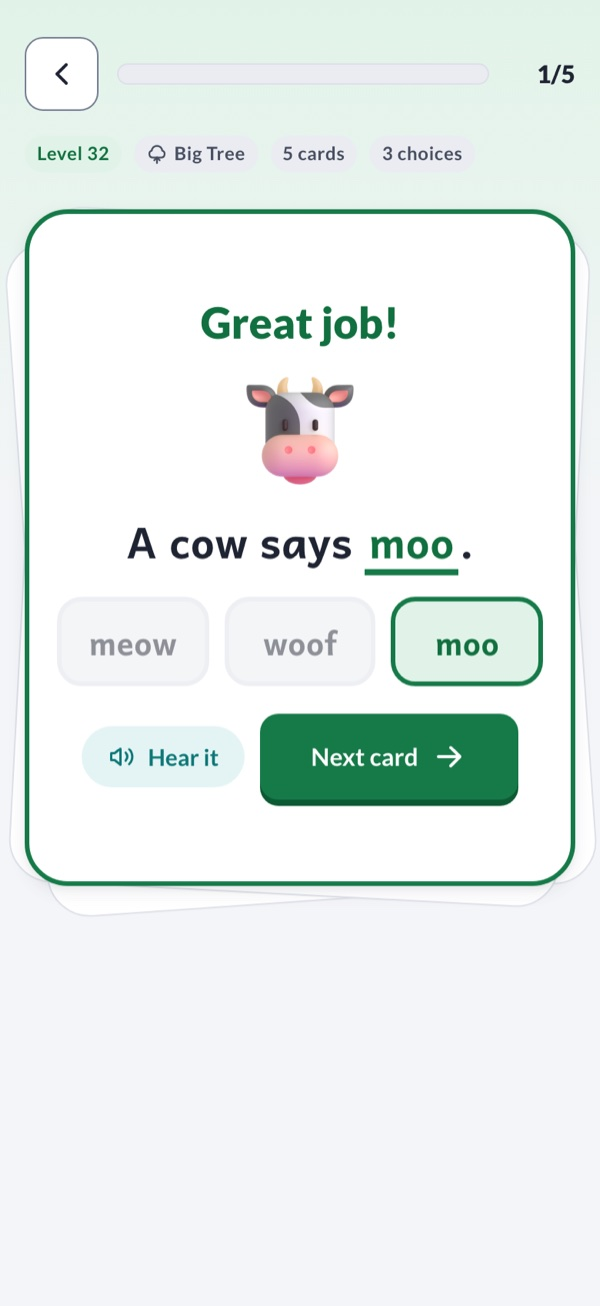
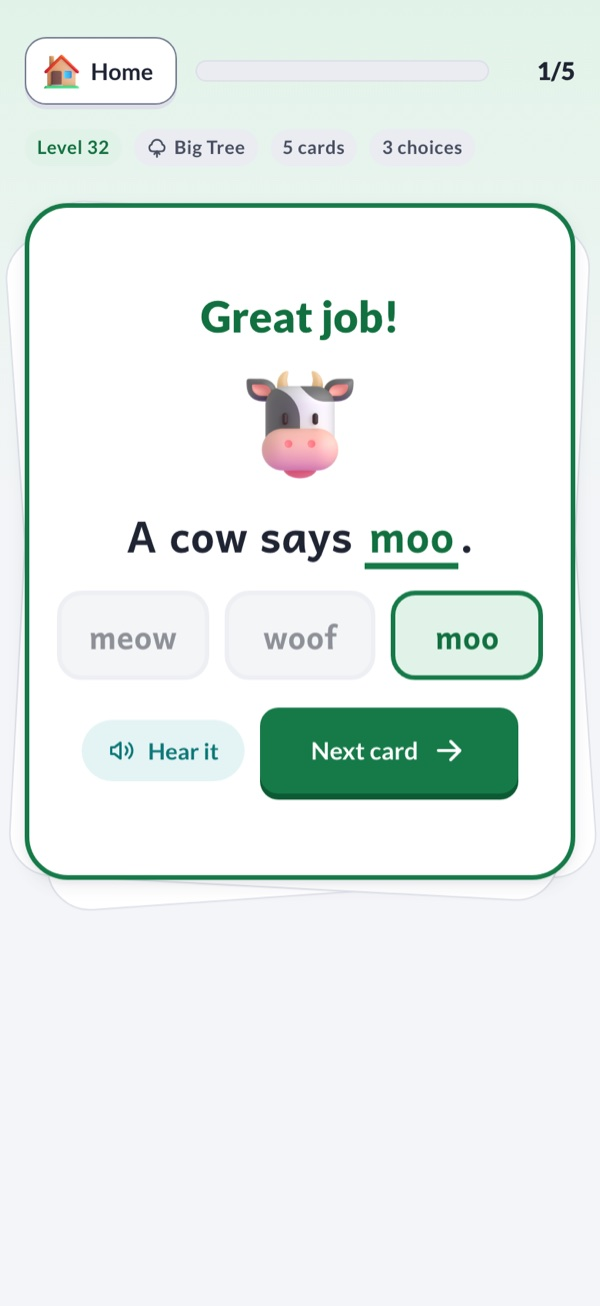
Auto-advance after 2 s; labelled Home button on every screen
- A right answer now moves on after 2 s (Next button fill and screen-reader
  text match); Home, Esc and every card change still clear the timer.
- The play screen's back arrow and the result screen's Map button are now
  the same Home button (3D house + label, 44 px tall).

diff --git a/app.js b/app.js
@@ -55,6 +55,8 @@ const ICON={
 // Card pictures: Microsoft Fluent Emoji 3D (MIT), one PNG per emoji in img/, named by code points without FE0F.
 const artSrc=e=>"img/u"+[...e.replace(/\uFE0F/g,"")].map(c=>c.codePointAt(0).toString(16)).join("-")+".png";
 const art=(e,cls="")=>`<img class="art ${cls}" src="${artSrc(e)}" alt="" draggable="false" onerror="this.replaceWith(document.createTextNode('${e}'))">`;
+// Every screen except the map itself has the same labelled Home button (Esc also goes home).
+const homeBtn=id=>`<button class="k-btn k-btn-outline chunky homebtn" id="${id}" title="Back to the level map (Esc)">${art("🏠")}Home</button>`;
 const levelPic=L=>L.words?L.words[0][1]:L.type==="sent"?L.items[0].e:L.items[0][2];
 const ic=(n,cls="k-icon")=>`<svg class="${cls}" viewBox="0 0 24 24" aria-hidden="true">${ICON[n]}</svg>`;
 const STAR='<path d="M12 2.8l2.8 5.7 6.3.9-4.55 4.4 1.07 6.25L12 17.1l-5.62 2.95 1.07-6.25L2.9 9.4l6.3-.9z"/>';
@@ -168,11 +170,11 @@ function start(lv){confirmReset=false;const L=LEVELS[lv-1];G={lv,L,cards:buildCa
 function header(){
   const pct=G.i/G.cards.length*100, t=TIERS[tierOf(G.lv)], L=G.L;
   const diff=L.type==="spell"?`${L.extra?L.extra+" decoy letter"+(L.extra>1?"s":""):"No decoys"}`:L.opts?`${L.opts} choices`:"";
-  return `<div class="bar"><button class="k-btn k-btn-outline quit" id="quit" aria-label="Back to the map">${ic("back")}</button><div class="k-progress-track" role="progressbar" aria-label="Cards done" aria-valuemin="0" aria-valuemax="${G.cards.length}" aria-valuenow="${G.i}"><div class="k-progress-fill" style="width:${pct}%"></div></div><div class="count" aria-label="Card ${G.i+1} of ${G.cards.length}">${G.i+1}/${G.cards.length}</div></div>
+  return `<div class="bar">${homeBtn("quit")}<div class="k-progress-track" role="progressbar" aria-label="Cards done" aria-valuemin="0" aria-valuemax="${G.cards.length}" aria-valuenow="${G.i}"><div class="k-progress-fill" style="width:${pct}%"></div></div><div class="count" aria-label="Card ${G.i+1} of ${G.cards.length}">${G.i+1}/${G.cards.length}</div></div>
   <div class="meta"><span class="k-badge k-badge-pill k-badge-primary">Level ${G.lv}</span><span class="k-badge k-badge-pill">${ic(t.icon,"k-icon")} ${t.name}</span><span class="k-badge k-badge-pill">${G.cards.length} cards</span>${diff?`<span class="k-badge k-badge-pill">${diff}</span>`:""}</div>`;
 }
 let keyHandler=null, advance=null;
-const WAIT=4000; // after a right answer, move on by itself after 4 s (Next skips the wait)
+const WAIT=2000; // after a right answer, move on by itself after 2 s (Next skips the wait)
 function stopAdvance(){if(advance){clearTimeout(advance);advance=null}}
 function goNext(){stopAdvance();if(!G)return;G.i++;G.i<G.cards.length?renderCard():finish()}
 const CHEERS=["Great job!","Super!","You got it!","Awesome!","Well done!"];
@@ -252,7 +254,7 @@ function finish(){
   <h1 id="done" tabindex="-1">Level ${lv} done!</h1><p>${miss===0?"Perfect, not a single slip!":`You found every answer, with ${miss} slip${miss>1?"s":""} along the way.`}${s<3?" A perfect round earns 3 stars.":""}</p>
   ${hasNext&&wasNew?`<div class="unlock">${newTier?`${art(t.e)}<span>New difficulty unlocked: <b>${t.name}</b><br>${t.skill}</span>`:`${ic("unlock")}<span>Level ${nextLv} is open. It’s a little harder!</span>`}</div>`:""}
   ${!hasNext?`<div class="unlock">${art("🏆")}<span>You finished the whole garden!</span></div>`:""}
-  <div class="row">${s<3?`<button class="k-btn k-btn-outline chunky" id="again">${ic("replay","k-icon sm")}Try for 3 stars</button>`:""}${hasNext?`<button class="k-btn k-btn-primary chunky" id="go">Level ${nextLv}${ic("next","k-icon sm")}</button>`:""}<button class="k-btn k-btn-outline chunky" id="map">${ic("map","k-icon sm")}Map</button></div></div>`;
+  <div class="row">${s<3?`<button class="k-btn k-btn-outline chunky" id="again">${ic("replay","k-icon sm")}Try for 3 stars</button>`:""}${hasNext?`<button class="k-btn k-btn-primary chunky" id="go">Level ${nextLv}${ic("next","k-icon sm")}</button>`:""}${homeBtn("map")}</div></div>`;
   const a=$("#again");if(a)a.onclick=()=>start(lv);
   const g=$("#go");if(g)g.onclick=()=>start(nextLv);
   $("#map").onclick=()=>home();

diff --git a/app.css b/app.css
@@ -75,7 +75,8 @@ button { font: inherit; color: inherit; }
 
 /* ---------- play ---------- */
 .bar { display: flex; align-items: center; gap: 12px; }
-.quit { width: var(--size-target-min); height: var(--size-target-min); padding: 0; flex: none; }
+.homebtn { display: inline-flex; align-items: center; gap: 6px; min-height: 44px; height: 44px; padding: 0 14px 0 10px; border-radius: 14px; flex: none; }
+.homebtn .art { width: 26px; height: 26px; }
 .bar .k-progress-track { flex: 1; height: 14px; }
 .bar .k-progress-fill { transition: width var(--duration-slow); }
 .count { font-weight: 900; font-variant-numeric: tabular-nums; min-width: 44px; text-align: right; }
@@ -127,10 +128,10 @@ button { font: inherit; color: inherit; }
 .slot.ok { border-style: solid; border-color: var(--primary); background: var(--primary-soft); color: var(--primary-text); }
 .done { display: flex; gap: 10px; align-items: center; justify-content: center; flex-wrap: wrap; margin-top: 4px; }
 [hidden] { display: none !important; }
-/* The Next button fills over the auto-advance wait (4 s). */
+/* The Next button fills over the auto-advance wait (2 s). */
 .nextcard { position: relative; overflow: hidden; isolation: isolate; }
 .nextcard .tick { position: absolute; inset: 0; z-index: -1; background: var(--primary-edge); transform-origin: left; transform: scaleX(0); }
-.nextcard.counting .tick { transform: scaleX(1); transition: transform var(--wait, 4s) linear; }
+.nextcard.counting .tick { transform: scaleX(1); transition: transform var(--wait, 2s) linear; }
 
 /* ---------- result ---------- */
 .result { text-align: center; max-width: 440px; margin: var(--space-8) auto 0; background: var(--surface); border: 3px solid var(--line); border-radius: 28px; padding: var(--space-8) var(--space-6); box-shadow: var(--shadow-2); }

diff --git a/prototype/mobile.html b/prototype/mobile.html
@@ -39,7 +39,7 @@ body{margin:0;background:radial-gradient(60% 50% at 80% 10%,#e1f3e8,transparent 
     <p>A card game that grows a child's English one level at a time, from matching pictures to words up to finishing sentences.</p>
     <ul>
       <li>Tap <b>Play</b> on the garden map: 40 levels in four stages, and the next level opens only when this one is finished.</li>
-      <li>Pick the word, find the missing letter or spell with letter tiles. A right answer turns green and completes the word on the same card, then the next card comes after 4 seconds; tap <b>Hear it</b> to hear it again.</li>
+      <li>Pick the word, find the missing letter or spell with letter tiles. A right answer turns green and completes the word on the same card, then the next card comes after 2 seconds; tap <b>Hear it</b> to hear it again.</li>
       <li>A wrong answer shakes the card and crosses out the choice. Fewer slips, more stars.</li>
       <li>Words are read by the phone's own voice. Progress stays on the device.</li>
     </ul>

diff --git a/README.md b/README.md
@@ -7,9 +7,9 @@ Live: https://word-garden-sable.vercel.app
 - **40 levels in 4 stages of 10, 5 cards each.** Seedling: match the picture to its word. Sprout: find the missing letter. Sunflower: spell the word with letter tiles. Big Tree: finish sentences, opposites and rhymes.
 - **No repeats.** About 160 picture words are dealt into fixed sets, so a word is a question in only one level; every Big Tree sentence, opposite and rhyme is used once.
 - **Difficulty follows the child.** A level opens only when the one before it is finished. Inside each stage the words get longer, choices go from 2 to 4 (wrong picture choices have the same length), and spelling decoys go from 0 to 3.
-- **One card per question.** Right: the choice turns green, the card shows the completed word or sentence in Andika (a font for early readers), says it aloud, and moves on after 4 seconds (Next skips the wait). Wrong: the card shakes and the choice is crossed out.
+- **One card per question.** Right: the choice turns green, the card shows the completed word or sentence in Andika (a font for early readers), says it aloud, and moves on after 2 seconds (Next skips the wait). Wrong: the card shakes and the choice is crossed out.
 - **Stars, not scores:** 3 for a perfect round, 2 for up to two slips, 1 otherwise. Progress stays on the device.
-- Works with touch, mouse and keyboard (type the letters on spelling cards, Backspace to undo, Esc for the map), and announces right and wrong answers to screen readers.
+- Works with touch, mouse and keyboard (type the letters on spelling cards, Backspace to undo, Esc or the Home button on every screen to get back to the map), and announces right and wrong answers to screen readers.
 - Installable PWA that works offline after the first visit; Android app via a Capacitor shell with native text-to-speech.
 
 Pictures: [Microsoft Fluent Emoji](https://github.com/microsoft/fluentui-emoji) in the 3D style, © Microsoft Corporation, MIT licence, resized to 160 px PNGs in `img/` (named by code point; `tools/img-index.mjs` lists them for offline caching).

diff --git a/BRIEF.md b/BRIEF.md
@@ -14,7 +14,7 @@ Children aged about 4 to 7 who are starting to read English need lots of short, 
 
 ## v1 screens
 1. **Garden map (home):** the current difficulty and a Play button, then 40 levels in 4 stages of 10 (Seedling, Sprout, Sunflower, Big Tree) with stars and locks.
-2. **Card play:** one card per question, 5 per level. Right answer: on the same card the choice turns green, the completed word or sentence appears, it is read aloud, and the next card follows after 4 s. Wrong answer: the card shakes and the choice is crossed out.
+2. **Card play:** one card per question, 5 per level. Right answer: on the same card the choice turns green, the completed word or sentence appears, it is read aloud, and the next card follows after 2 s. Wrong answer: the card shakes and the choice is crossed out.
    - Seedling L1–10: match a picture to its word (2 → 4 choices, same-length wrong choices).
    - Sprout L11–20: pick the missing letter (2 → 4 choices).
    - Sunflower L21–30: spell the word with letter tiles (0 → 3 decoy letters).
